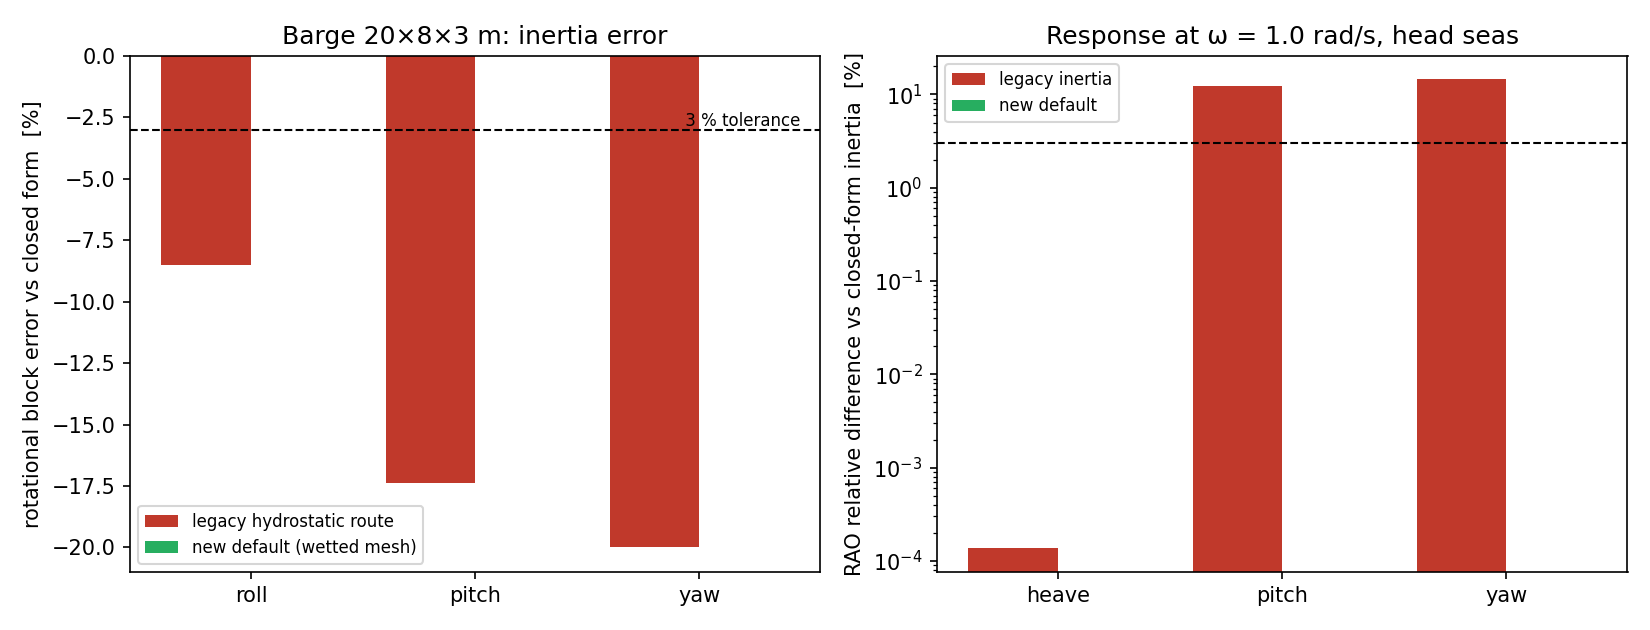
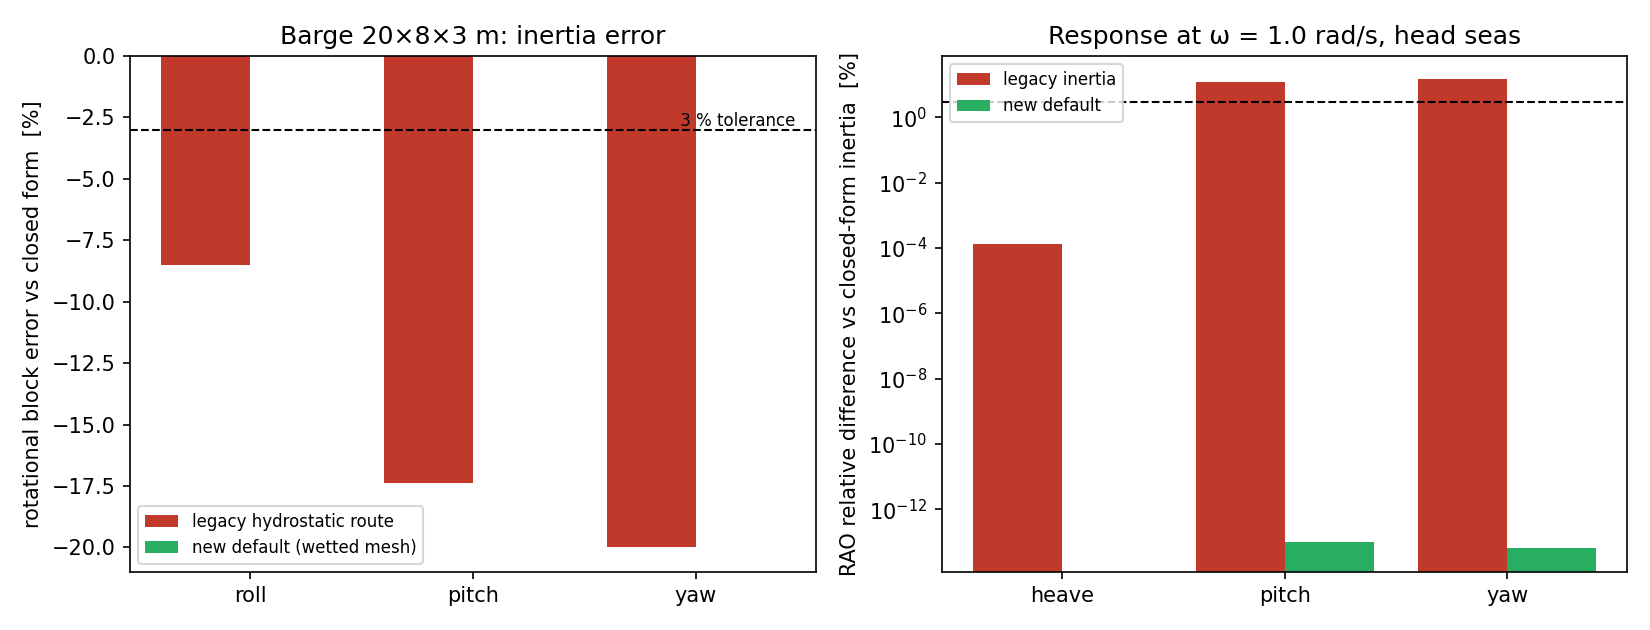
m23930: matured mission deliverables

diff --git a/_scratch_m23930_api.py b/_scratch_m23930_api.py
@@ -1,0 +1,29 @@
+import json, os, sys, urllib.request
+
+base = os.environ["TENSOR_API_BASE"]
+user = os.environ["TENSOR_AGENT_USER"]
+pw = os.environ["TENSOR_AGENT_PASS"]
+
+def req(method, path, body=None, token=None):
+    url = base + path
+    data = json.dumps(body).encode() if body is not None else None
+    r = urllib.request.Request(url, data=data, method=method)
+    r.add_header("Content-Type", "application/json")
+    if token:
+        r.add_header("Authorization", "Bearer " + token)
+    try:
+        with urllib.request.urlopen(r, timeout=30) as resp:
+            return json.loads(resp.read().decode())
+    except Exception as e:
+        return {"error": str(e)}
+
+tok = req("POST", "/auth/login", {"username": user, "password": pw})
+token = tok.get("access_token") or tok.get("token") or ""
+print("login:", "ok" if token else tok)
+if not token:
+    sys.exit(1)
+
+for p in sys.argv[1:]:
+    m = req("GET", p, token=token)
+    print("==", p)
+    print(json.dumps(m, ensure_ascii=False, indent=1)[:6000])

diff --git a/docs/cases/case_bem_rigid_body_mass/production_path/PRODUCTION_PATH_INERTIA.md b/docs/cases/case_bem_rigid_body_mass/production_path/PRODUCTION_PATH_INERTIA.md
@@ -21,27 +21,27 @@ second moments `m(L²+B²)/12` etc., evaluated in machine arithmetic.
 
 | DOF | closed form | legacy route | legacy error | new default | new error |
 |---|---|---|---|---|---|
-| roll | 4.100000e+06 | 3.751742e+06 | -8.49% | 4.100000e+06 | +0.00e+00% |
-| pitch | 1.787600e+07 | 1.477254e+07 | -17.36% | 1.787600e+07 | +0.00e+00% |
-| yaw | 1.902400e+07 | 1.521920e+07 | -20.00% | 1.902400e+07 | +0.00e+00% |
+| roll | 4.100000e+06 | 3.751742e+06 | -8.49% | 4.100000e+06 | -4.44e-14% |
+| pitch | 1.787600e+07 | 1.477254e+07 | -17.36% | 1.787600e+07 | -9.99e-14% |
+| yaw | 1.902400e+07 | 1.521920e+07 | -20.00% | 1.902400e+07 | -9.99e-14% |
 
 Worst entry of the whole 6×6 matrix: legacy 20.00%,
-new 0.00e+00% (round-off). Every rotational
+new 9.79e-14% (round-off). Every rotational
 entry of the legacy route violates the 3 % criterion.
 
 ## 2. Consequence in the response (RAO, ω = 1.0 rad/s, head seas)
 
 | DOF | RAO with closed-form inertia | RAO with legacy inertia | legacy rel. diff | RAO with new default | new rel. diff |
 |---|---|---|---|---|---|
-| surge | 5.143977e-01 | 5.256096e-01 | 2.18e+00% | 5.143977e-01 | 0.00e+00% |
-| sway | 4.930271e-03 | 4.195291e-03 | 1.49e+01% | 4.930271e-03 | 0.00e+00% |
+| surge | 5.143977e-01 | 5.256096e-01 | 2.18e+00% | 5.143977e-01 | 1.51e-13% |
+| sway | 4.930271e-03 | 4.195291e-03 | 1.49e+01% | 4.930271e-03 | 5.28e-14% |
 | heave | 1.102132e+00 | 1.102133e+00 | 1.36e-04% | 1.102132e+00 | 0.00e+00% |
-| roll | 4.999972e-03 | 4.451266e-03 | 1.10e+01% | 4.999972e-03 | 0.00e+00% |
-| pitch | 1.138563e-01 | 9.987645e-02 | 1.23e+01% | 1.138563e-01 | 0.00e+00% |
-| yaw | 1.038990e-03 | 1.189360e-03 | 1.45e+01% | 1.038990e-03 | 0.00e+00% |
+| roll | 4.999972e-03 | 4.451266e-03 | 1.10e+01% | 4.999972e-03 | 3.47e-14% |
+| pitch | 1.138563e-01 | 9.987645e-02 | 1.23e+01% | 1.138563e-01 | 9.75e-14% |
+| yaw | 1.038990e-03 | 1.189360e-03 | 1.45e+01% | 1.038990e-03 | 6.26e-14% |
 
 Worst response error: legacy 14.91%,
-new 0.00e+00%.
+new 1.51e-13%.
 
 ## 3. Curved hull: the mesh route converges to the analytic half-sphere
 
@@ -74,9 +74,9 @@ large for this body.
 
 | quantity | reference | worst error | < 3 % ? |
 |---|---|---|---|
-| barge 6×6 matrix, new default | closed-form block form | 0.00e+00% | yes (round-off) |
+| barge 6×6 matrix, new default | closed-form block form | 9.79e-14% | yes (round-off) |
 | barge 6×6 matrix, legacy route | closed-form block form | 20.00% | **no** |
-| barge RAO, new default | RAO with closed-form inertia | 0.00e+00% | yes (round-off) |
+| barge RAO, new default | RAO with closed-form inertia | 1.51e-13% | yes (round-off) |
 | barge RAO, legacy route | RAO with closed-form inertia | 14.91% | **no** |
 | half-sphere matrix, new default, subdiv 4 | analytic half-sphere | 0.16% | yes |
 
